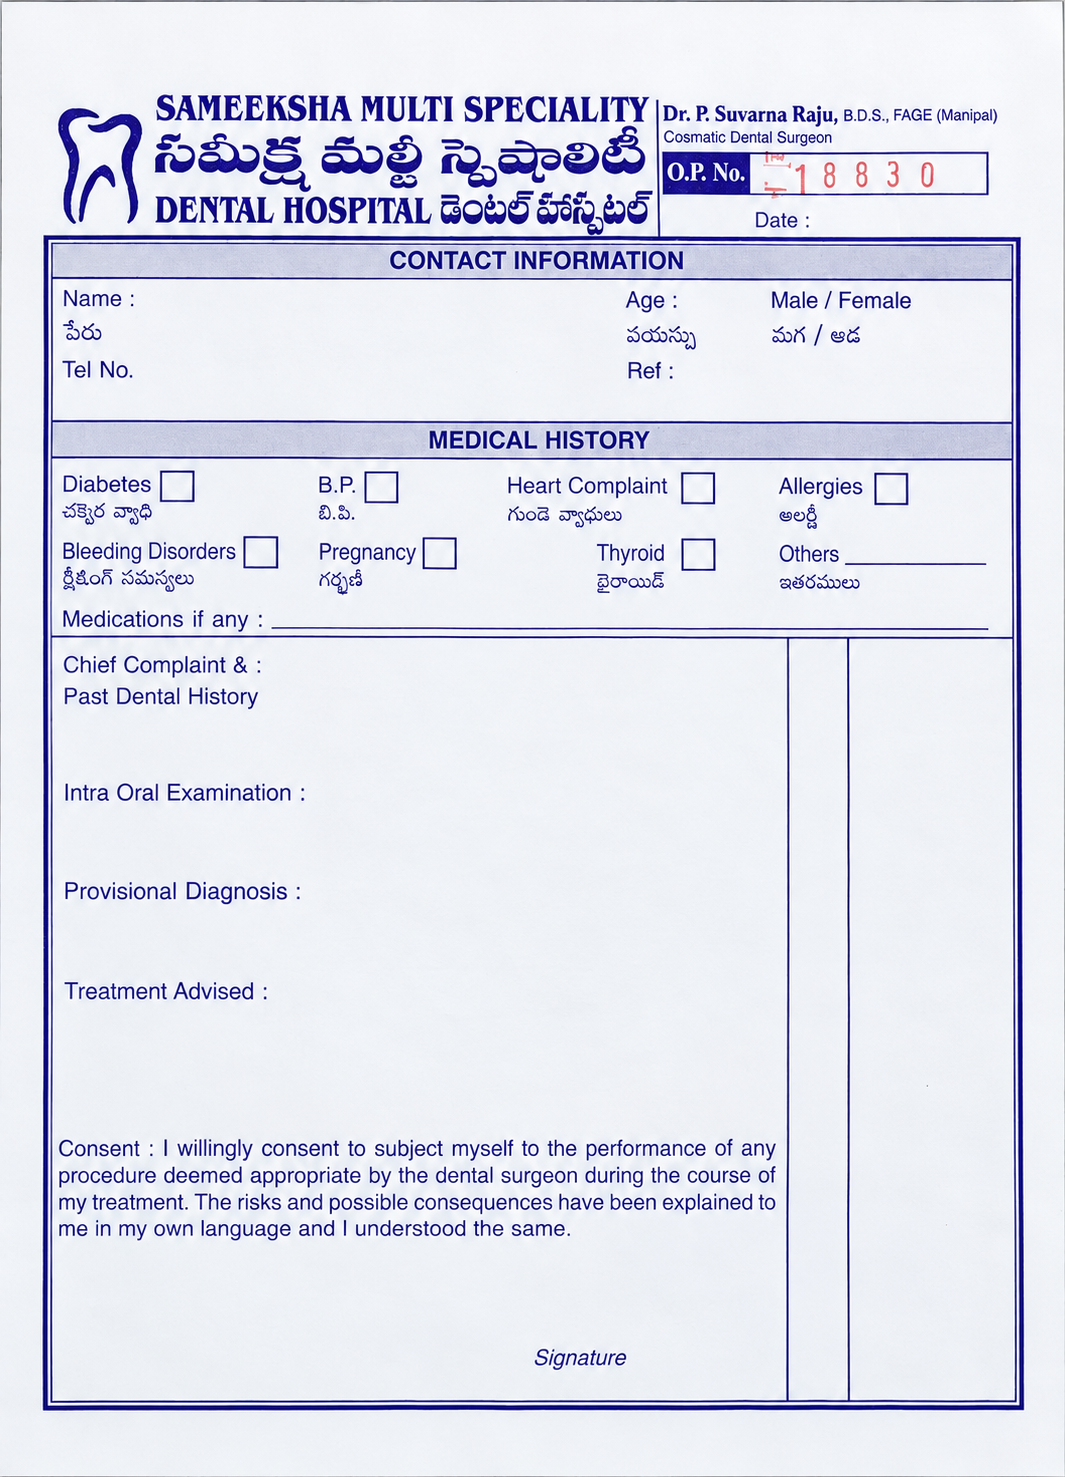
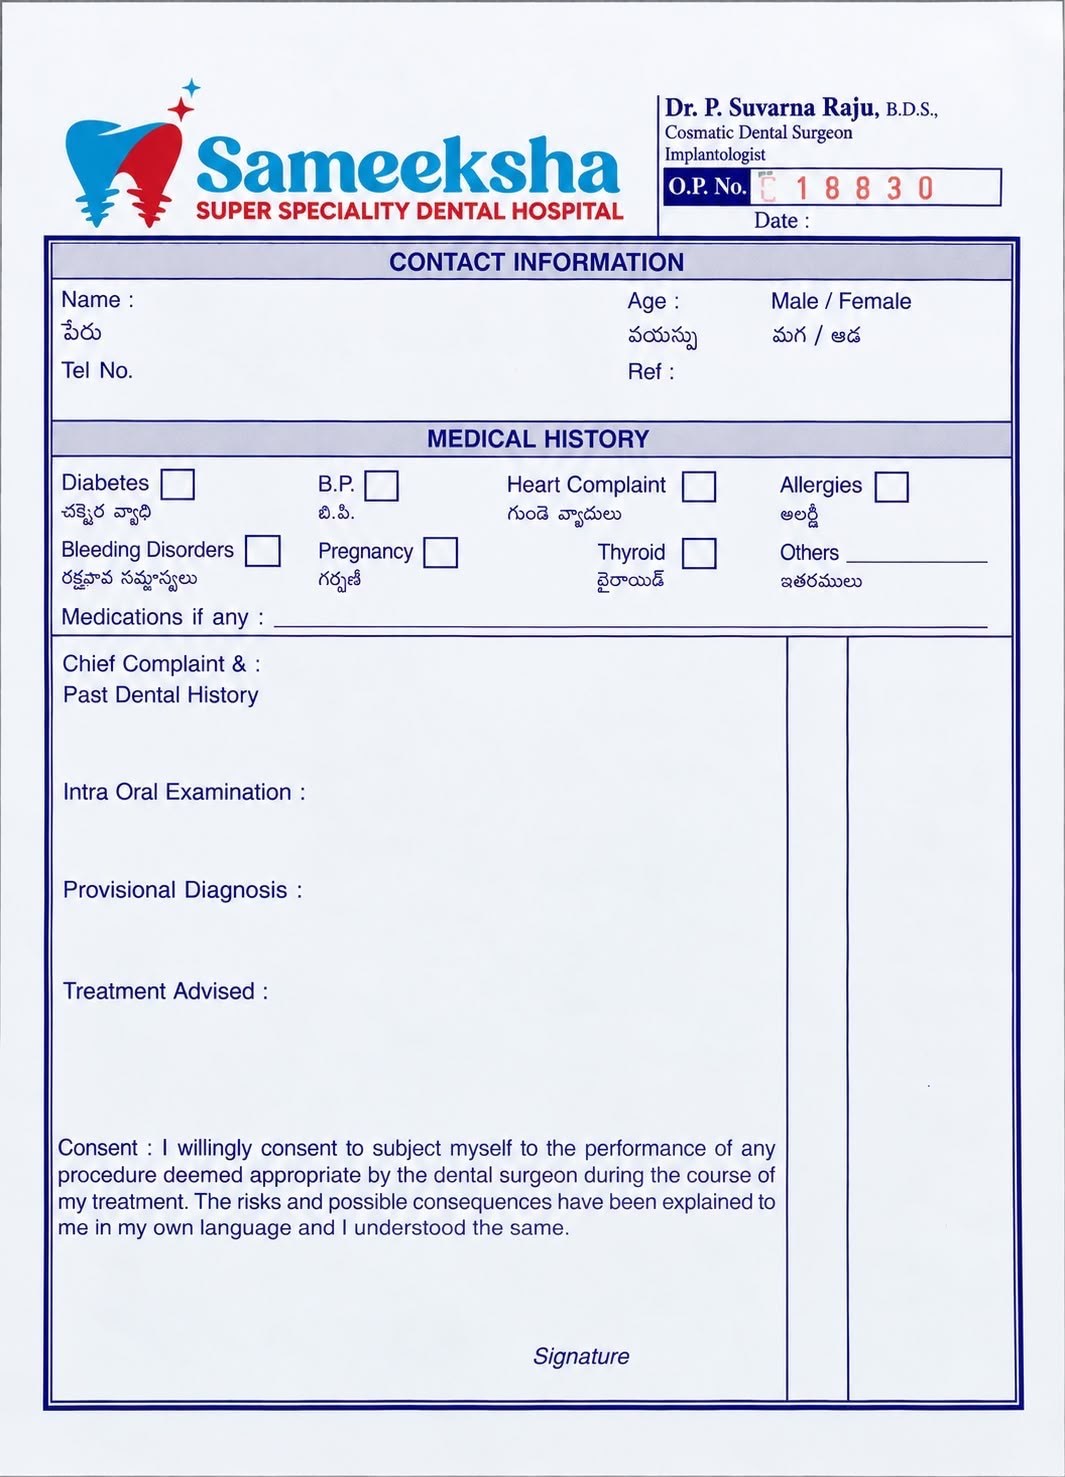
feat(casesheet): update official case sheet template with new hospital branding and alignment

diff --git a/src/components/OfficialSameekshaCaseSheet.tsx b/src/components/OfficialSameekshaCaseSheet.tsx
@@ -228,7 +228,7 @@ export const OfficialSameekshaCaseSheet: React.FC<OfficialSameekshaCaseSheetProp
       {/* 1. Authentic Template Image Background */}
       <img
         src={assetSrc}
-        alt="Sameeksha Multi Speciality Dental Hospital Case Sheet Template"
+        alt="Sameeksha Super Speciality Dental Hospital Case Sheet Template"
         className="absolute inset-0 w-full h-full object-contain pointer-events-none"
         style={{
           width: "100%",
@@ -264,37 +264,37 @@ export const OfficialSameekshaCaseSheet: React.FC<OfficialSameekshaCaseSheetProp
         {/* ============================================================== */}
         {/* O.P. No. 6-DIGIT BOX OVERLAY                                   */}
         {/* Covers scanned 18830 stamp with clean white slots & dividers  */}
-        {/* Bounds: x: 748..987, y: 149..205 (width: 239px, height: 56px)  */}
+        {/* Bounds: x: 750..1002, y: 168..205.5 (width: 252px, height: 37.5px) */}
         {/* ============================================================== */}
         <rect
-          x="748"
-          y="149"
-          width="239"
-          height="56"
+          x="750"
+          y="168"
+          width="252"
+          height="37.5"
           fill="#ffffff"
           stroke="#002b66"
           strokeWidth="2"
         />
         {/* Slot Dividers */}
-        <line x1="787.8" y1="149" x2="787.8" y2="205" stroke="#002b66" strokeWidth="1.5" />
-        <line x1="827.6" y1="149" x2="827.6" y2="205" stroke="#002b66" strokeWidth="1.5" />
-        <line x1="867.5" y1="149" x2="867.5" y2="205" stroke="#002b66" strokeWidth="1.5" />
-        <line x1="907.3" y1="149" x2="907.3" y2="205" stroke="#002b66" strokeWidth="1.5" />
-        <line x1="947.1" y1="149" x2="947.1" y2="205" stroke="#002b66" strokeWidth="1.5" />
+        <line x1="792" y1="168" x2="792" y2="205.5" stroke="#002b66" strokeWidth="1.5" />
+        <line x1="834" y1="168" x2="834" y2="205.5" stroke="#002b66" strokeWidth="1.5" />
+        <line x1="876" y1="168" x2="876" y2="205.5" stroke="#002b66" strokeWidth="1.5" />
+        <line x1="918" y1="168" x2="918" y2="205.5" stroke="#002b66" strokeWidth="1.5" />
+        <line x1="960" y1="168" x2="960" y2="205.5" stroke="#002b66" strokeWidth="1.5" />
 
-        {/* 6 Digit Values (horizontally and vertically centered in slots, 31px bold) */}
+        {/* 6 Digit Values (horizontally and vertically centered in slots, 24px bold) */}
         {opDigits.map((digit, i) => {
-          const cx = 748 + i * 39.83 + 19.9;
+          const cx = 750 + i * 42 + 21;
           return (
             <text
               key={i}
               x={cx}
-              y="177"
+              y="186.75"
               dominantBaseline="central"
               textAnchor="middle"
               fontFamily="'Lucida Console', Monaco, monospace, sans-serif"
               fontWeight="900"
-              fontSize="31px"
+              fontSize="24px"
               fill="#002b66"
             >
               {digit}
